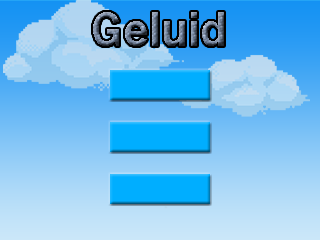
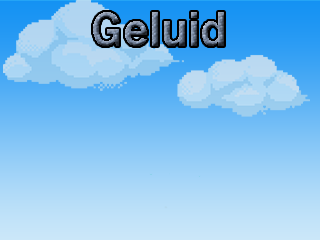
Almost done with volume changer.

Changed region(s): [[0.3438, 0.7, 0.6875, 0.875], [0.3438, 0.2625, 0.6875, 0.4375], [0.3438, 0.4958, 0.6875, 0.6417]]

diff --git a/Legend Of The Princess-core/src/com/frobplugins/platformer/Assets.java b/Legend Of The Princess-core/src/com/frobplugins/platformer/Assets.java
@@ -17,6 +17,8 @@ public class Assets {
     public static Texture mainmenu;
     public static Texture opties;
     public static Texture geluid;
+    public static Texture muted;
+    public static Texture non_muted;
     
     public static Texture volume_10;
     public static Texture volume_20;
@@ -37,6 +39,9 @@ public class Assets {
         mainmenu = new Texture(Gdx.files.internal("menu.png"));
         opties = new Texture(Gdx.files.internal("opties.png"));
         geluid = new Texture(Gdx.files.internal("geluid.png"));
+
+        muted = new Texture(Gdx.files.internal("muted.png"));
+        non_muted = new Texture(Gdx.files.internal("non muted.png"));
 
         volume_10 = new Texture(Gdx.files.internal("volume/volume_10.png"));
         volume_20 = new Texture(Gdx.files.internal("volume/volume_20.png"));

diff --git a/Legend Of The Princess-core/src/com/frobplugins/platformer/Options.java b/Legend Of The Princess-core/src/com/frobplugins/platformer/Options.java
@@ -62,6 +62,7 @@ public class Options implements Screen{
         	font.draw(main.batch, "Geluid", 240, 430);
         	font.draw(main.batch, "Graphics", 220, 300);
         	font.draw(main.batch, "Overig", 240, 160);
+        	font.draw(main.batch, "[TERUG]", 0, 67);
         main.batch.end();
         
         clickListener();
